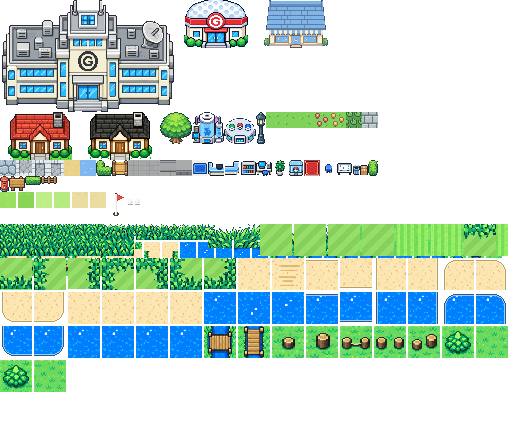
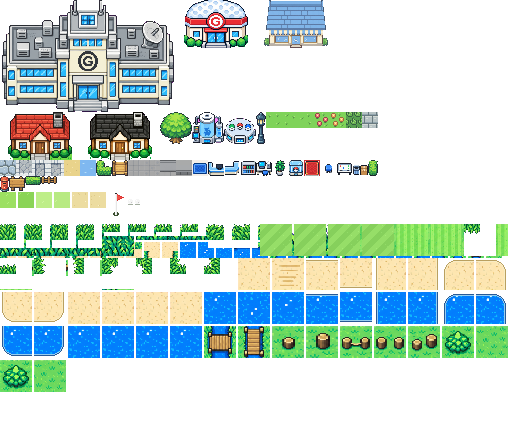
ラフを粗いドット（16ドット・5色）の新シートに差し替え（tools/rough-tiles.py）。縁は透明つきでフェアウェイの上に重ねる方式に
Claude-Session: https://claude.ai/code/session_018VDSYCPciSbMvR8kKaJDnr

Changed region(s): [[0.0, 0.5164, 0.5312, 0.6986], [0.9062, 0.5164, 0.9688, 0.6075]]

diff --git a/js/scenes/field.js b/js/scenes/field.js
@@ -451,8 +451,8 @@ class FieldScene {
     let name = null;
     if (cnt === 1) name = n ? 'fr_u' : s ? 'fr_d' : w ? 'fr_l' : 'fr_r';
     else if (cnt === 2 && !(n && s) && !(e && w)) name = n && w ? 'fr_ul' : n && e ? 'fr_ur' : s && w ? 'fr_dl' : 'fr_dr';
-    if (name && Tiles.has(name)) { ctx.drawImage(Tiles.get(name), px, py, T, T); return; }
     ctx.drawImage(Tiles.get(`fairway${((tx + ty) % 4 + 4) % 4}`), px, py, T, T);
+    if (name && Tiles.has(name)) ctx.drawImage(Tiles.get(name), px, py, T, T);   // 境目（透明つき）を重ねる
   }
   // 13枚ブロブ型オートタイル（中央・辺4・外角4・内角4）。kind: 'bk' バンカー / 'pd' 池。same(c) で同じ地形か判定（マップ外は同じ扱い）
   drawBlob(ctx, kind, same, tx, ty, px, py) {

diff --git a/tools/rough-tiles.py b/tools/rough-tiles.py
@@ -1,0 +1,64 @@
+#!/usr/bin/env python3
+"""粗いドットのラフ（assets/src/course_sheet_rough2.png、ChatGPT製、マゼンタ背景）を 16ドットで取り込み、
+   rough0-3 / rough_fg0-3 / rough_stepL,R / fr_u,d,l,r（透明の縁）を置き換える。course-finish.py の後に実行"""
+import json
+from PIL import Image
+import numpy as np
+from scipy import ndimage
+j = json.load(open('assets/tiles.json')); atlas = Image.open('assets/tiles.png').convert('RGBA')
+A = np.asarray(Image.open('assets/src/course_sheet_rough2.png').convert('RGB')).astype(int)
+mag = (A[:, :, 0] > 180) & (A[:, :, 2] > 180) & ((A[:, :, 0] + A[:, :, 2]) / 2 - A[:, :, 1] > 80)
+lab, n = ndimage.label(~mag); comps = []
+for i, sl in enumerate(ndimage.find_objects(lab)):
+    h = sl[0].stop - sl[0].start; w = sl[1].stop - sl[1].start
+    if w < 40 or h < 30: continue
+    m = (lab[sl] == i + 1)
+    if np.median(A[sl][m], axis=0).sum() < 200: continue
+    comps.append((sl[0].start, sl[1].start, w, h))
+comps.sort(); rows = []
+for c in comps:
+    if rows and abs(rows[-1][0][0] - c[0]) < 90: rows[-1].append(c)
+    else: rows.append([c])
+rows = [sorted(r, key=lambda c: c[1]) for r in rows]
+print([len(r) for r in rows])
+# 1タイル=16ドット、1ドット≈12px（96/8? 元絵は 192px 角）
+def cut(y, x, w, h, tw, th, anchor):
+    reg = A[y:y + h, x:x + w]; m = ~mag[y:y + h, x:x + w]
+    # 元の正方形タイルの大きさは行の最大幅から（192px 前後）
+    out = np.zeros((th, tw, 4), dtype=np.uint8)
+    bx = by = w / tw if anchor == 'full' else DOT
+    for jj in range(th):
+        for ii in range(tw):
+            # anchor: 'full' 全体, 'bottom' 下揃え, 'top' 上揃え, 'left','right'
+            if anchor == 'full': cy = int((jj + 0.5) * by); cx = int((ii + 0.5) * bx)
+            elif anchor == 'bottom': cy = int(h - (th - jj - 0.5) * by); cx = int((ii + 0.5) * bx)
+            elif anchor == 'top': cy = int((jj + 0.5) * by); cx = int((ii + 0.5) * bx)
+            elif anchor == 'left': cy = int((jj + 0.5) * by); cx = int((ii + 0.5) * bx)
+            else: cy = int((jj + 0.5) * by); cx = int(w - (tw - ii - 0.5) * bx)
+            if cy < 0 or cy >= h or cx < 0 or cx >= w: continue
+            r = max(1, int(bx * 0.3))
+            win = reg[max(0, cy - r):cy + r + 1, max(0, cx - r):cx + r + 1].reshape(-1, 3); mm = m[max(0, cy - r):cy + r + 1, max(0, cx - r):cx + r + 1].reshape(-1)
+            if mm.mean() < 0.5: continue
+            out[jj, ii] = (*np.median(win[mm], axis=0).astype(int), 255)
+    arr = out.astype(int); pink = (arr[:, :, 3] > 0) & ((arr[:, :, 0] + arr[:, :, 2]) / 2 - arr[:, :, 1] > 50) & (arr[:, :, 0] > 120); arr[pink] = 0
+    return Image.fromarray(arr.astype(np.uint8), 'RGBA')
+DOT = max(c[2] for c in rows[0]) / 16
+tiles = {}
+for (y, x, w, h), nm in zip(rows[0], ['rough0', 'rough1', 'rough2', 'rough3']): tiles[nm] = cut(y, x, w, h, 16, 16, 'full')
+for (y, x, w, h), nm in zip(rows[1], ['rough_fg0', 'rough_fg1', 'rough_fg2', 'rough_fg3']): tiles[nm] = cut(y, x, w, h, 16, 8, 'bottom')
+for (y, x, w, h), nm in zip(rows[2], ['rough_stepL', 'rough_stepR']): tiles[nm] = cut(y, x, w, h, 16, 16, 'bottom')
+# 縁：上=タイル上側にラフ（下が透明）、下=下側、左、右。それぞれ 16×16 の中にラフ部分だけ
+ed = rows[3]
+tiles['fr_u'] = cut(*ed[0], 16, 16, 'top'); tiles['fr_d'] = cut(*ed[1], 16, 16, 'bottom'); tiles['fr_l'] = cut(*ed[2], 16, 16, 'left'); tiles['fr_r'] = cut(*ed[3], 16, 16, 'right')
+# 外角＝上と左（など）の重ね合わせ
+def union(a, b):
+    out = tiles[a].copy(); out.alpha_composite(tiles[b]); return out
+tiles['fr_ul'] = union('fr_u', 'fr_l'); tiles['fr_ur'] = union('fr_u', 'fr_r'); tiles['fr_dl'] = union('fr_d', 'fr_l'); tiles['fr_dr'] = union('fr_d', 'fr_r')
+# アトラスの既存枠（32角）に書く：枠を透明で埋めてから左上に置き、json のサイズを更新
+for nm, im in tiles.items():
+    x, y, w, h = j[nm]
+    atlas.paste(Image.new('RGBA', (w, h), (0, 0, 0, 0)), (x, y)); atlas.paste(im, (x, y)); j[nm] = [x, y, im.width, im.height]
+atlas.save('assets/tiles.png'); json.dump(j, open('assets/tiles.json', 'w'))
+pv = Image.new('RGBA', (18 * 9, 18 * 2), (255, 0, 255, 255))
+for i, nm in enumerate(['rough0', 'rough1', 'rough_fg0', 'rough_stepL', 'fr_u', 'fr_d', 'fr_l', 'fr_r', 'fr_ul']): pv.paste(tiles[nm], ((i % 9) * 18, 0))
+pv.resize((pv.width * 6, pv.height * 6), Image.NEAREST).save('/tmp/claude-0/rough2_preview.png'); print('ok')
